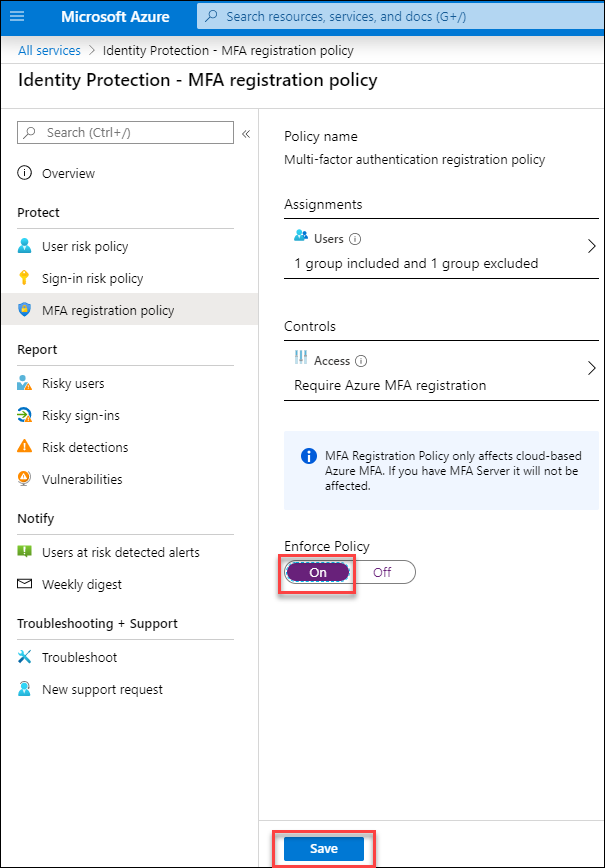
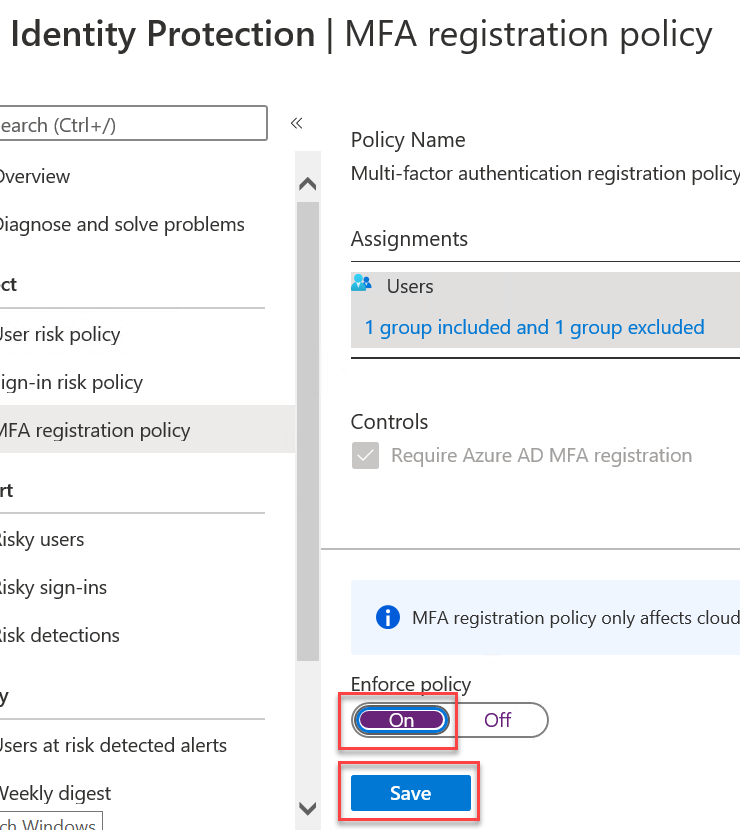
Updated Hybrid Identity MCW

diff --git a/Hands-on lab/HOL step-by step - Hybrid identity.md b/Hands-on lab/HOL step-by step - Hybrid identity.md
@@ -1082,39 +1082,31 @@ In this task, you will enable Azure AD Identity Protection
 
 4. When prompted to sign in, enter the credentials of the **john.doe** Azure AD user account, which you copied into Notepad earlier in this exercise.
 
-5. In the Azure portal, expand the left navigation and select **+ Create a resource**.
+5. In the Azure portal, search for and select **Azure AD Identity Protection** in the search bar at the top of the page.
 
-6. On the **New** blade, in the **Search the Marketplace** text box, type **Identity Protection** and, in the list of search results, select **Azure AD Identity Protection**. 
+6. On the **Azure AD Identity Protection** blade, select **MFA registration policy** on the left under **Protect**.
 
-    ![Search for and select Azure AD Identity Protection](images/Hands-onlabstep-bystep-HybridIdentityImages/media/SearchSelectIdentityProtection.png "Select Azure Identity Protection")
+7.  On the **Azure AD Identity Protection - MFA registration policy** blade, in the **Assignments** section, select **All users**. 
 
-7. On the **Azure AD Identity Protection** blade, select **Create** twice.
+    ![Select Users in the Assignments section](images/Hands-onlabstep-bystep-HybridIdentityImages/media/SelectUsers.png "Select All users")
 
-8. In the Azure portal, navigate to the **All services** blade, in the **Search All** text box, type **Azure AD Identity Protection** blade, and, in the list of results, select **Azure AD Identity Protection**.
-
-9.  On the **Azure AD Identity Protection** blade, select **MFA registration policy** on the left under **Protect**.
-
-10. On the **Azure AD Identity Protection - MFA registration policy** blade, in the **Assignments** section, select **Users**. 
-
-    ![Select Users in the Assignments section](images/Hands-onlabstep-bystep-HybridIdentityImages/media/SelectUsers.png "Select Users")
-
-11. On the **Users** blade, on the **Include** tab, choose **Select individual users and groups**, then **Select users**, on the **Select users** blade, in the **Select** text box, type **Engineering**, in the list of results, select **Engineering** and choose **Select**.
+8.  On the **Users** blade, on the **Include** tab, choose **Select individual users and groups**. On the **Select users** blade, in the **Select** text box, type **Engineering**, in the list of results, select **Engineering** and choose **Select**.
 
     ![In the Azure portal, on the Include tab of the Users blade, the group included in the scope of the MFA registration policy is displayed.](images/Hands-onlabstep-bystep-HybridIdentityImages/media/IdentityProtection_MFAregistrationpolicy_UsersInclude.png "Include Engineering group")
 
-12. On the **Users** blade, on the **Exclude** tab, choose **Select excluded users**, on the **Select users** blade, in the **Select** text box, type **Engineering - Mandatory MFA**, in the list of results, select **Engineering - Mandatory MFA**, choose **Select**, and, back on the **Users** blade, select **Done**.
+9.  On the **Users** blade, on the **Exclude** tab, choose **0 users and groups selected**. On the **Select users** blade, in the **Select** text box, type **Engineering - Mandatory MFA**, in the list of results, select **Engineering - Mandatory MFA**, choose **Select**, and, back on the **Users** blade, select **Save**.
 
     ![In the Azure portal, on the Exclude tab of the Users blade, the group excluded from the scope of the MFA registration policy is displayed.](images/Hands-onlabstep-bystep-HybridIdentityImages/media/IdentityProtection_MFAregistrationpolicy_UsersExclude.png "Exclude group")
 
-13. Back on the **Azure AD Identity Protection - MFA registration policy** blade, in the **Controls** section, select **Access**. On the **Access** blade, ensure that the **Require Azure MFA registration** checkbox is selected, and choose **Select**.
+10. Back on the **Azure AD Identity Protection - MFA registration policy** blade, in the **Controls** section, ensure that the **Require Azure MFA registration** checkbox is selected.
 
-14. Back on the **Azure AD Identity Protection - MFA registration policy** blade, set **Enforce Policy** to **On** and select **Save**.
+11. Set **Enforce Policy** to **On** and select **Save**.
 
     ![In the Azure portal, the MFA registration policy settings are displayed.](images/Hands-onlabstep-bystep-HybridIdentityImages/media/IdentityProtection_MFAregistrationpolicy_EnforcePolicy.png "Enforce policy")
 
-15. On the **Azure AD Identity Protection** blade, select **User risk policy** on the left under **Protect**.
+12. On the **Azure AD Identity Protection** blade, select **User risk policy** on the left under **Protect**.
 
-16. On the **Azure AD Identity Protection - User risk policy** blade, configure the **User risk remediation policy** with the following settings and save your configuration:
+13. On the **Azure AD Identity Protection - User risk policy** blade, configure the **User risk remediation policy** with the following settings and save your configuration:
 
     - Assignments: 
 
